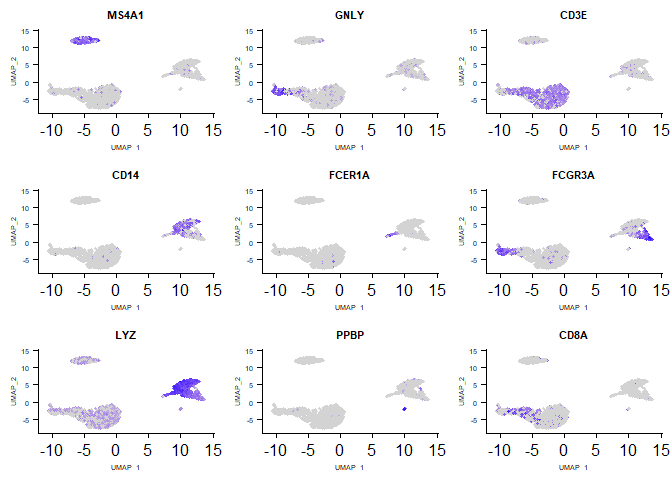
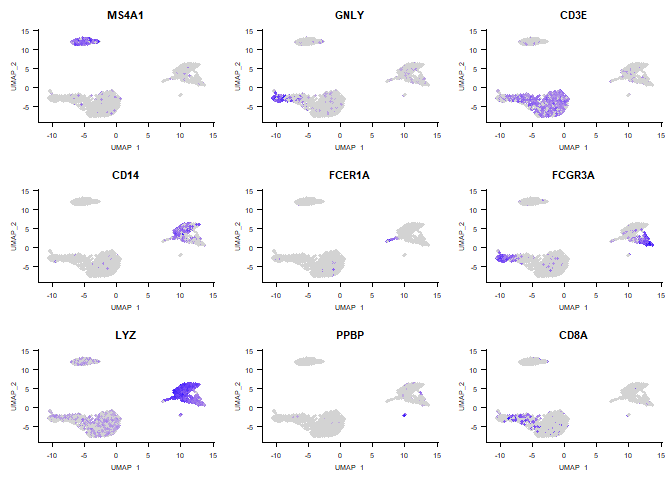
updated Figures

diff --git a/README.md b/README.md
@@ -277,26 +277,26 @@ pbmc <- RunUMAP(pbmc, dims = 1:10)
     ## To use Python UMAP via reticulate, set umap.method to 'umap-learn' and metric to 'correlation'
     ## This message will be shown once per session
 
-    ## 09:40:33 UMAP embedding parameters a = 0.9922 b = 1.112
+    ## 09:54:12 UMAP embedding parameters a = 0.9922 b = 1.112
 
-    ## 09:40:33 Read 2700 rows and found 10 numeric columns
+    ## 09:54:12 Read 2700 rows and found 10 numeric columns
 
-    ## 09:40:33 Using Annoy for neighbor search, n_neighbors = 30
+    ## 09:54:12 Using Annoy for neighbor search, n_neighbors = 30
 
-    ## 09:40:33 Building Annoy index with metric = cosine, n_trees = 50
+    ## 09:54:12 Building Annoy index with metric = cosine, n_trees = 50
 
     ## 0%   10   20   30   40   50   60   70   80   90   100%
 
     ## [----|----|----|----|----|----|----|----|----|----|
 
     ## **************************************************|
-    ## 09:40:33 Writing NN index file to temp file C:\Users\harpa\AppData\Local\Temp\Rtmp8EZ25O\file21ac4b07688d
-    ## 09:40:33 Searching Annoy index using 1 thread, search_k = 3000
-    ## 09:40:34 Annoy recall = 100%
-    ## 09:40:34 Commencing smooth kNN distance calibration using 1 thread
-    ## 09:40:35 Initializing from normalized Laplacian + noise
-    ## 09:40:35 Commencing optimization for 500 epochs, with 107868 positive edges
-    ## 09:40:44 Optimization finished
+    ## 09:54:13 Writing NN index file to temp file C:\Users\harpa\AppData\Local\Temp\RtmpoJsBmG\file2fb877d171ce
+    ## 09:54:13 Searching Annoy index using 1 thread, search_k = 3000
+    ## 09:54:14 Annoy recall = 100%
+    ## 09:54:14 Commencing smooth kNN distance calibration using 1 thread
+    ## 09:54:15 Initializing from normalized Laplacian + noise
+    ## 09:54:15 Commencing optimization for 500 epochs, with 107868 positive edges
+    ## 09:54:23 Optimization finished
 
 ``` r
 DimPlot(pbmc, reduction = "umap")
@@ -405,6 +405,7 @@ p <- lapply(X = p, FUN = function(x) x +
                                         theme(axis.title.y = element_text(size = 5)) +
                                         theme(axis.title.x = element_text(size = 5)) +
                                         theme(axis.text.y = element_text(size = 5)) +
+                                        theme(axis.text.x = element_text(size = 5)) +
                                         theme(legend.position = "none")  )
 
 CombinePlots(plots = p)
